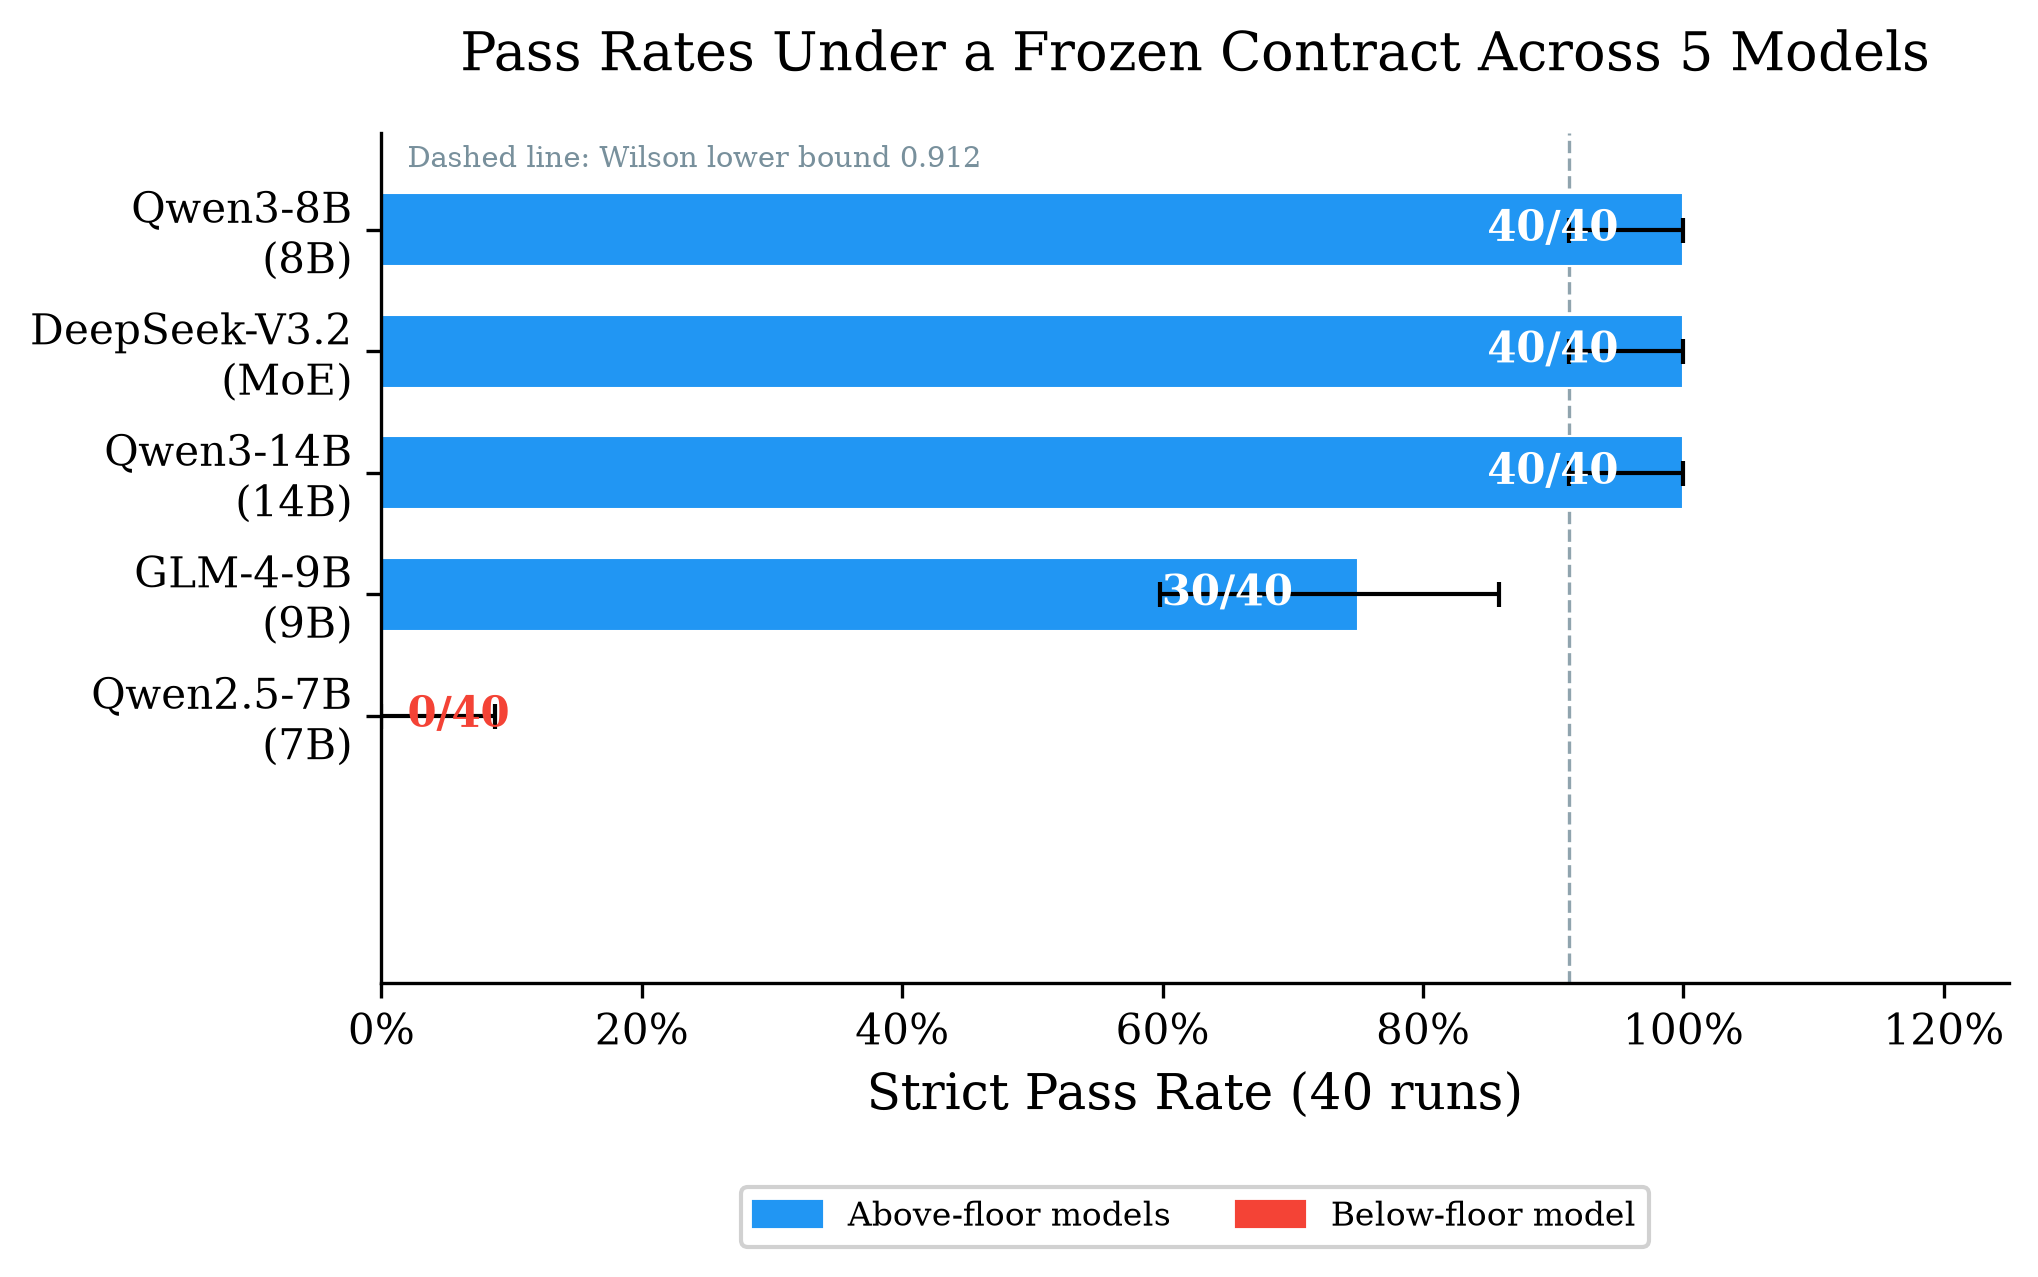
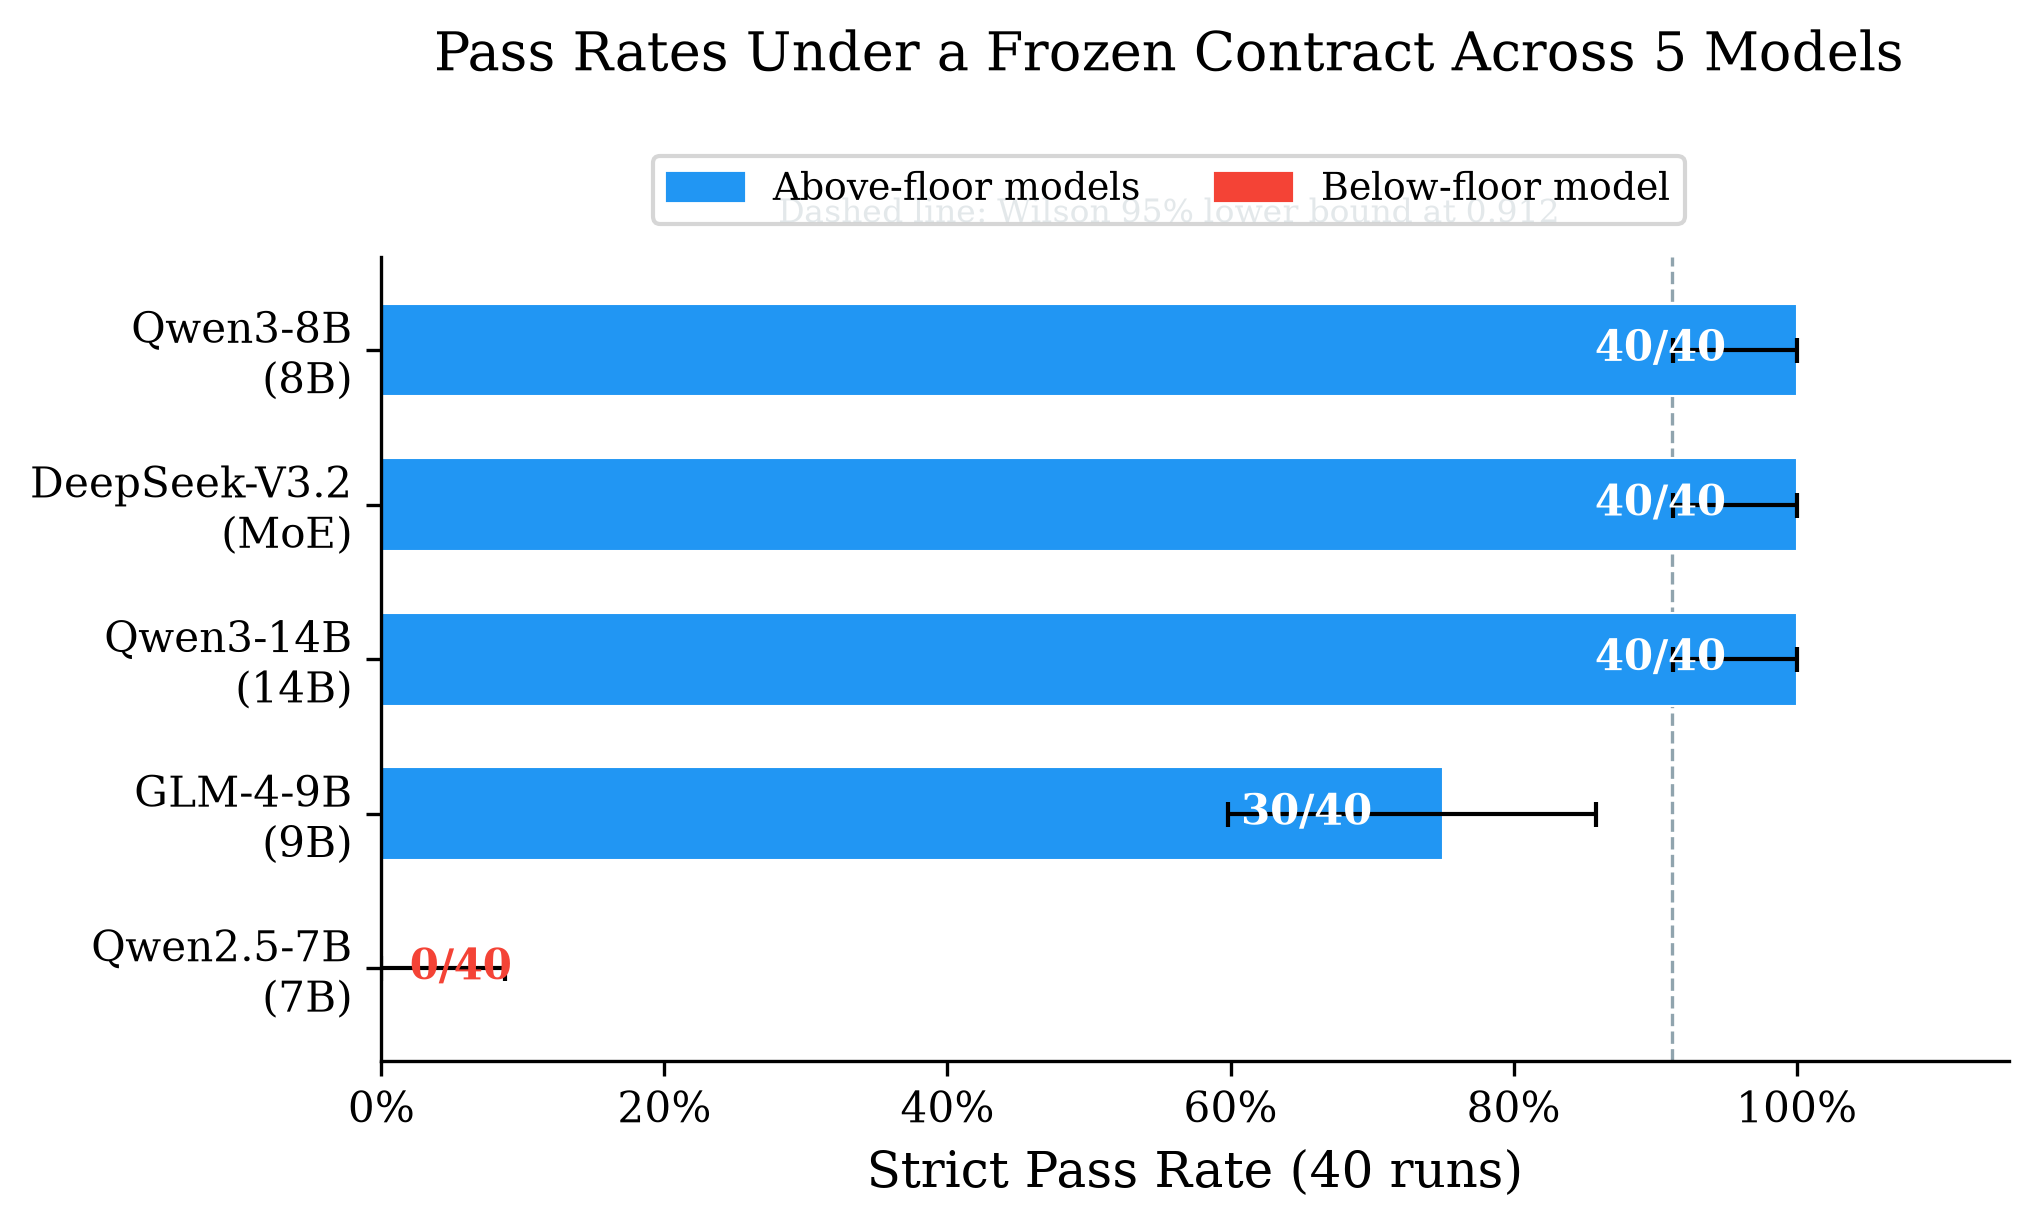
fix(figure-1): tighten layout, move legend below title (like Figure 3)
- Removed excessive whitespace below Qwen2.5-7B bar (ylim -0.6 to 4.6)
- Legend moved from bottom to centered below title (fig.legend at y=0.88)
- Dashed line note centered below legend (fig.text at y=0.83)
- Figure height 4.5→4.0 (tighter)
- Layout now matches Figure 3: title → legend → note → chart

diff --git a/research/04_methods/scripts/generate_paper_figures.py b/research/04_methods/scripts/generate_paper_figures.py
@@ -69,8 +69,8 @@ def figure_1_multi_model():
         ("Qwen2.5-7B\n(7B)", 40, 0, "below"),
     ]
 
-    fig, ax = plt.subplots(figsize=(7, 4.5))
-    fig.subplots_adjust(bottom=0.25)
+    fig, ax = plt.subplots(figsize=(7, 4))
+    fig.subplots_adjust(top=0.78)
 
     y_pos = np.arange(len(models))
     colors = [COLOR_ABOVE if m[3] == "above" else COLOR_BELOW for m in models]
@@ -95,26 +95,28 @@ def figure_1_multi_model():
         else:
             ax.text(0.02, i, label, ha="left", va="center", color=COLOR_BELOW if m[3] == "below" else "black", fontweight="bold", fontsize=10)
 
-    # No GLM annotation on chart — the 30/40 label inside the bar + paper text §4.10 suffices
-
     ax.set_yticks(y_pos)
     ax.set_yticklabels([m[0] for m in models])
     ax.set_xlabel("Strict Pass Rate (40 runs)")
-    ax.set_xlim(0, 1.25)
-    ax.set_ylim(-0.8, 6.2)
+    ax.set_xlim(0, 1.15)
+    ax.set_ylim(-0.6, 4.6)
     ax.xaxis.set_major_formatter(mticker.PercentFormatter(xmax=1.0))
     ax.axvline(x=0.912, color="#90A4AE", linestyle="--", linewidth=0.8, zorder=1)
-    # Wilson bound label — bottom-left corner, no overlap with legend or title
-    ax.text(0.02, -0.70, "Dashed line: Wilson lower bound 0.912", fontsize=7, color="#78909C", ha="left", va="top")
-
-    # Legend — BELOW the plot area, horizontal layout
-    above_patch = mpatches.Patch(color=COLOR_ABOVE, label="Above-floor models")
-    below_patch = mpatches.Patch(color=COLOR_BELOW, label="Below-floor model")
-    ax.legend(handles=[above_patch, below_patch], loc="upper center",
-              bbox_to_anchor=(0.5, -0.22), ncol=2, fontsize=8, framealpha=0.9)
 
     ax.invert_yaxis()
-    ax.set_title("Pass Rates Under a Frozen Contract Across 5 Models", pad=15)
+
+    # Title
+    fig.suptitle("Pass Rates Under a Frozen Contract Across 5 Models", fontsize=13, y=0.97)
+
+    # Legend — centered below title, above chart (same style as Figure 3)
+    above_patch = mpatches.Patch(color=COLOR_ABOVE, label="Above-floor models")
+    below_patch = mpatches.Patch(color=COLOR_BELOW, label="Below-floor model")
+    fig.legend(handles=[above_patch, below_patch], loc="upper center",
+               bbox_to_anchor=(0.5, 0.88), ncol=2, fontsize=9, frameon=True, edgecolor="#cccccc")
+
+    # Dashed line note — centered below legend
+    fig.text(0.5, 0.83, "Dashed line: Wilson 95% lower bound at 0.912",
+             ha="center", va="top", fontsize=8, color="#78909C")
 
     fig.savefig(OUTPUT_DIR / "figure-1-multi-model-pass-rates.pdf", bbox_inches="tight")
     fig.savefig(OUTPUT_DIR / "figure-1-multi-model-pass-rates.png", bbox_inches="tight")
